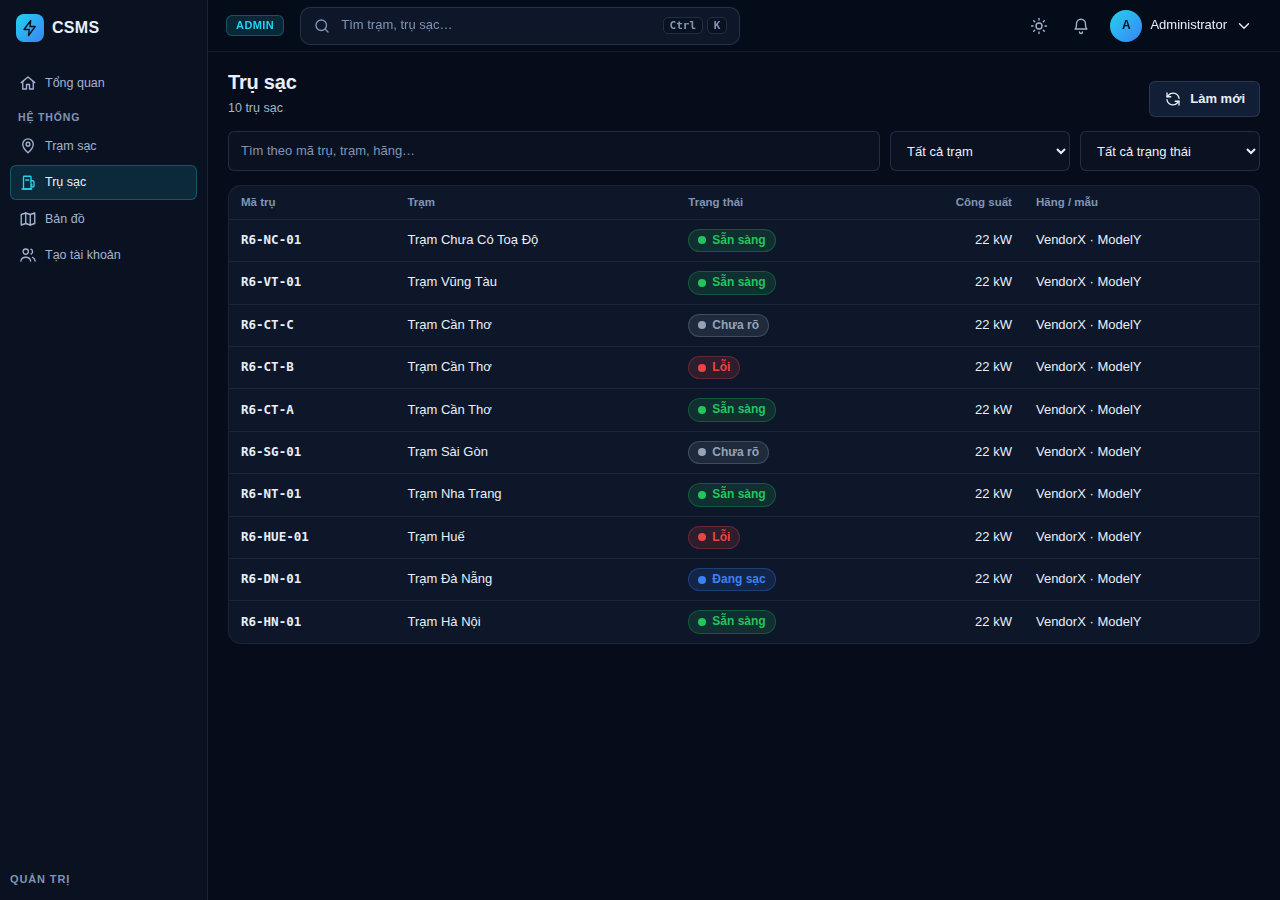
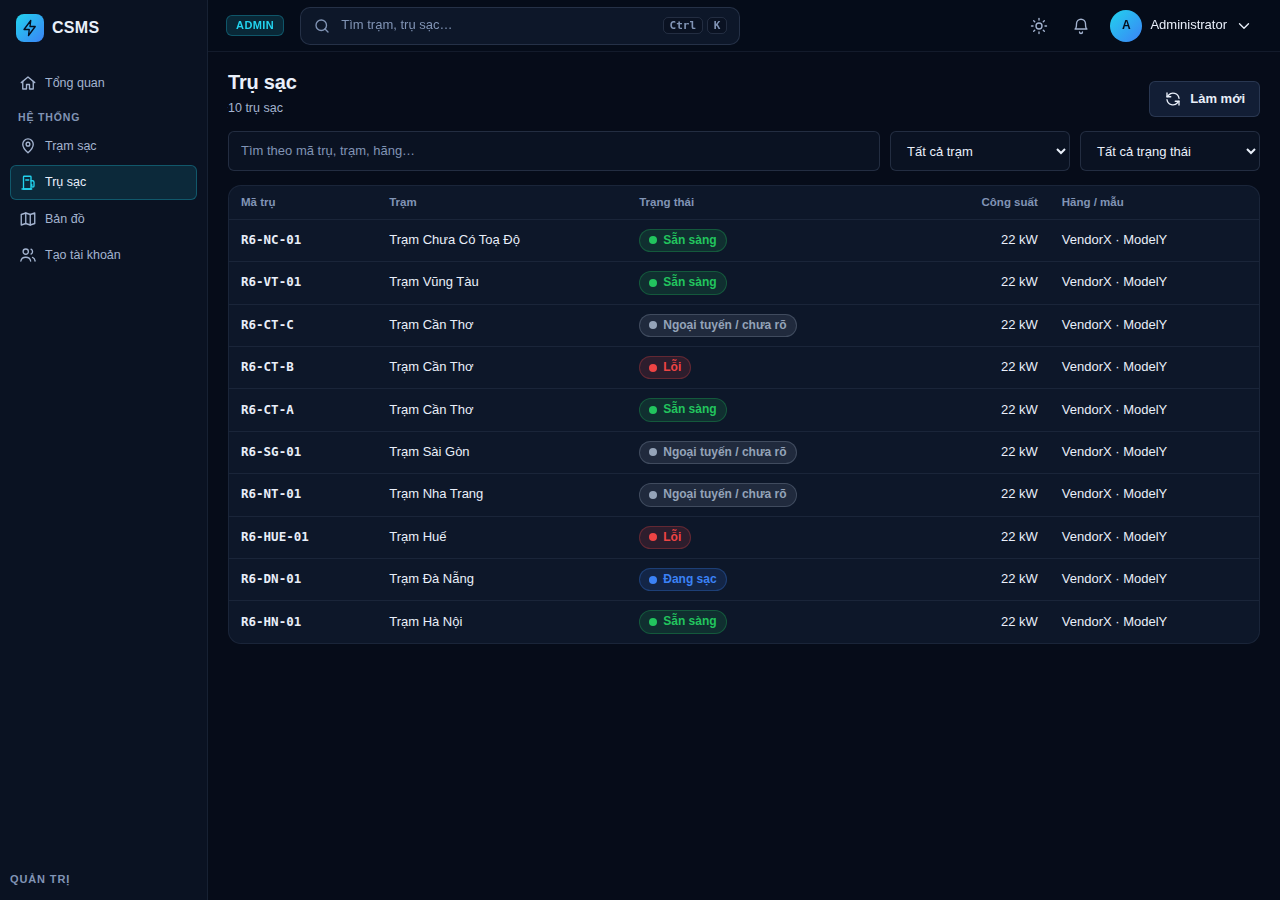
docs: cập nhật báo cáo vòng 6, ảnh UI và giới hạn đã biết [GYM-36]

diff --git a/README.md b/README.md
@@ -269,12 +269,12 @@ Menu của chức năng chưa có backend được **ẩn** (cấu hình trong `
 
 ### Giới hạn đã biết
 
-- **B5 (Chưa xác thực trụ / kết nối ẩn danh):** WebSocket `/ocpp/:chargePointCode` hiện chỉ kiểm tra mã trụ có tồn tại trong CSDL và trạm không bị khóa; chưa có cơ chế xác thực danh tính trụ (chưa có Basic Auth với mật khẩu trụ hoặc mTLS). Do đó, một kết nối ẩn danh nếu biết mã trụ có thể kết nối và đá (ngắt kết nối) trụ thật đang hoạt động theo logic S-13 (kết nối mới thay thế kết nối cũ). Đề xuất thiết kế (chưa có code, chờ PO chọn phương án): `docs/B5-xac-thuc-tru-de-xuat-thiet-ke.md`.
+- **B5 (Chưa xác thực trụ / kết nối ẩn danh):** WebSocket `/ocpp/:chargePointCode` hiện chỉ kiểm tra mã trụ có tồn tại trong CSDL và trạm không bị khóa; chưa có cơ chế xác thực danh tính trụ (chưa có Basic Auth với mật khẩu trụ hoặc mTLS). Do đó, một kết nối ẩn danh nếu biết mã trụ có thể kết nối và đá (ngắt kết nối) trụ thật đang hoạt động theo logic S-13 (kết nối mới thay thế kết nối cũ). Đề xuất thiết kế (chưa có code, chờ PO chọn phương án): `docs/B5-xac-thuc-tru-de-xuat-thiet-ke.md`. **Rủi ro được ghi nhận và chấp nhận tạm cho môi trường demo/staging (03/10/2026) đến khi PO chọn phương án; không dùng nguyên trạng cho production.**
 - **K-01 (Boot trùng messageId xử lý hai lần):** Chưa có cơ chế idempotency/deduplication cho frame OCPP CALL; nếu trụ gửi hai bản tin CALL trùng `messageId`, server hiện tại sẽ xử lý cả hai lần độc lập thay vì trả lại kết quả đã lưu trước đó.
-- **Authorize còn là stub; StatusNotification mức trụ chưa lưu (F5):** `Authorize` trả `Accepted` nếu có `idTag`, chưa kiểm tra thẻ RFID trong CSDL. `StatusNotification` đã cập nhật `connectors` cho `connectorId` ≥ 1 (khử trùng lỗi theo `OCPP_ERROR_DEDUP_SECONDS`), nhưng tin `connectorId = 0` (trạng thái của cả trụ) vẫn chỉ được xác nhận `{}` và ghi một dòng log gom theo trụ, chưa lưu vào CSDL. Ngoài ra `errorCode` ngoài 16 mã OCPP 1.6 được lưu thành `OtherError` (mã gốc giữ trong `vendor_error_code`).
+- **Authorize còn là stub; StatusNotification mức trụ chưa lưu (F5):** `Authorize` trả `Accepted` nếu có `idTag`, chưa kiểm tra thẻ RFID trong CSDL. `StatusNotification` đã cập nhật `connectors` cho `connectorId` ≥ 1 (khử trùng lỗi theo `OCPP_ERROR_DEDUP_SECONDS`), nhưng tin `connectorId = 0` (trạng thái của cả trụ) vẫn chỉ được xác nhận `{}` và ghi một dòng log gom theo trụ, chưa lưu vào CSDL (thiết kế cột/bảng cho trạng thái mức trụ thuộc S-11 và chờ Phúc/PO chốt; S-11 đã merge ở #70 chưa giải quyết mục này). Ngoài ra `errorCode` ngoài 16 mã OCPP 1.6 được lưu thành `OtherError` (mã gốc giữ trong `vendor_error_code`).
 - **Thư viện OCPP (Kế hoạch vs Triển khai):** Tài liệu kế hoạch Sprint 2 ban đầu ghi nhận dự kiến sử dụng thư viện `ocpp-rpc`. Tuy nhiên, mã nguồn thực tế đang sử dụng trực tiếp thư viện WebSocket `ws` thuần kết hợp bộ định dạng và xử lý frame tự viết (`backend/src/modules/ocpp/`) để kiểm soát chặt chẽ giao thức OCPP 1.6J.
 - **Tắt máy sạch (N4) chỉ đúng với một tiến trình server:** khi khởi động, server đặt mọi trụ `ONLINE` còn sót về `UNKNOWN` (kèm đầu nối). Nếu chạy nhiều bản sao cùng một CSDL, bản khởi động sau sẽ đánh dấu nhầm trụ đang kết nối ở bản kia; cần cơ chế theo phiên trước khi mở rộng ngang. `SIGKILL` không chạy được handler tắt máy, nên trụ `ONLINE` mồ côi chỉ được dọn ở lần khởi động kế tiếp.
-- **Hiển thị trụ ONLINE có đầu nối không khả dụng:** trụ `ONLINE` mà mọi đầu nối đều `UNAVAILABLE`/`UNKNOWN` vẫn hiện nhóm "Sẵn sàng" (xanh). Cần PO/QA chốt cách hiển thị.
+- **Hiển thị trụ ONLINE có đầu nối `UNKNOWN`:** trụ `ONLINE` mà đầu nối chưa báo trạng thái (`UNKNOWN`, thường vừa Boot) vẫn hiện nhóm "Sẵn sàng" (xanh) vì trụ đang kết nối. Trụ `ONLINE` có toàn đầu nối `UNAVAILABLE` đã hiện "Ngoại tuyến / chưa rõ". Cần PO/QA xác nhận quy tắc này.
 - **Tile bản đồ thật chưa kiểm:** kiểm thử giao diện bản đồ dùng tile OSM giả (PNG trong suốt); chưa thử tải tile thật trên mạng có Internet. Chưa kiểm staging với 50 trụ ảo (thiếu URL staging).
 
 ---

diff --git a/docs/testing/ui-round6/README.md b/docs/testing/ui-round6/README.md
@@ -35,19 +35,21 @@ Các kiểm tra (desktop 1280 px; mobile 390 px kiểm lại số marker, màu, 
 |---|---|---|
 | Số marker = số trạm có toạ độ (7), ghi chú "1 trạm chưa có toạ độ" | ok | ok |
 | Chú giải đủ 5 nhóm; Leaflet khởi tạo, yêu cầu tile | ok | ok |
-| Màu marker từng trạm (Hà Nội ready, Đà Nẵng charging, Huế fault, Nha Trang ready, Sài Gòn offline, Cần Thơ fault, Vũng Tàu ready) | 6/7 sai: mọi trạm có trụ ONLINE hiện offline | 7/7 đúng |
+| Màu marker từng trạm (Hà Nội ready, Đà Nẵng charging, Huế fault, Nha Trang offline, Sài Gòn offline, Cần Thơ fault, Vũng Tàu ready) | 6/7 sai: mọi trạm có trụ ONLINE hiện offline | 7/7 đúng |
 | Chấm màu panel danh sách trạm | 6/7 sai | 7/7 đúng |
 | Bộ lọc trạng thái (4 nhóm) cho danh sách và marker | sai: "Sẵn sàng/Đang sạc/Lỗi" rỗng, "Ngoại tuyến" hiện cả 7 trạm | đúng |
 | Tìm "Huế" → 1 marker | ok | ok |
 | Bấm marker / bấm dòng danh sách → ngăn chi tiết đúng trạm, đầu nối hiện đúng giá trị gốc | ok | ok |
-| Nhãn trụ trong ngăn chi tiết trạm | ONLINE hiện "Ngoại tuyến / chưa rõ" | "Sẵn sàng" / "Đang sạc" / "Lỗi" theo đầu nối |
+| Nhãn trụ trong ngăn chi tiết trạm | ONLINE hiện "Ngoại tuyến / chưa rõ" | "Sẵn sàng" / "Đang sạc" / "Lỗi" theo đầu nối; trụ ONLINE có toàn đầu nối `UNAVAILABLE` (Nha Trang) và trụ `UNKNOWN` hiện "Ngoại tuyến / chưa rõ" |
 | Tooltip giữ trạng thái gốc (`Trạng thái gốc: ONLINE`, `Available`, `Charging`...) | ok | ok |
 | Màn danh sách trụ: nhãn, màu badge, bộ lọc 4 nhóm | 8/10 trụ sai, lọc sai | đúng |
 | Ngăn chi tiết trụ: nhãn đầu ngăn, "Trạng thái gốc" = ONLINE, tooltip đầu nối | nhãn sai | đúng |
-| KPI tổng quan: Tổng 10, Sẵn sàng 5, Đang sạc 1, Lỗi 2, Ngoại tuyến 2 | 0/0/0/10 | đúng |
+| KPI tổng quan: Tổng 10, Sẵn sàng 4, Đang sạc 1, Lỗi 2, Ngoại tuyến / chưa rõ 3 | 0/0/0/10 | đúng |
 | Không tràn ngang ở 390 px (bản đồ, danh sách trụ) | ok | ok |
 
 Chi tiết từng kiểm tra (kỳ vọng/thực tế) nằm trong `results.json`.
+
+Lưu ý: cột "Trước" và các ảnh `before-*` lấy từ lần chạy đầu trên `main` với kỳ vọng cũ (trạm Nha Trang kỳ vọng "ready"); chỉ phần `after` được chạy lại ngày 03/10 với kỳ vọng mới (Nha Trang "offline", KPI 4/1/2/3). Số 66/121 của bản trước không tính lại.
 
 ## Ảnh chụp
 
@@ -68,11 +70,13 @@ Chi tiết từng kiểm tra (kỳ vọng/thực tế) nằm trong `results.json
   thay bằng ảnh trong suốt; chưa xác nhận tile thật hiển thị, CORS (`crossOrigin: true`) và tốc độ tải tile.
 - Chỉ chạy Chrome (150) headless; chưa chạy Firefox/Safari. Chưa đo trên thiết bị thật.
 
-## Bất thường của sản phẩm ghi nhận (chưa vá, cần PO/QA quyết định)
+## Quyết định hiển thị đã xử lý (cập nhật 03/10, commit `9fc383d` và `65e3cc5`)
 
-1. Trụ `ONLINE` mà mọi đầu nối đều `UNAVAILABLE` hoặc `UNKNOWN` hiện "Sẵn sàng" (xanh) vì `ONLINE` thuộc nhóm ready và
-   `SEVERITY` xếp ready nặng hơn offline. Ảnh `after-charge-point-drawer-unavailable-desktop.png`: trụ "Sẵn sàng" nhưng cả
-   hai đầu "Không khả dụng". Có thể gây hiểu nhầm là sạc được.
-2. Nhãn đầu nối `UNAVAILABLE` là "Không khả dụng", trong khi mô tả F4 nêu nhãn "Tạm ngừng".
-3. Trụ `UNKNOWN` hiện nhãn "Chưa rõ" (màu nhóm offline), khác nhãn nhóm "Ngoại tuyến / chưa rõ" ở chú giải và bộ lọc.
-   Đây là hành vi đã có từ trước F2.
+1. Trụ `ONLINE` mà **mọi** đầu nối đều `UNAVAILABLE` thuộc nhóm "Ngoại tuyến / chưa rõ" (trạm Nha Trang trong dữ liệu
+   thử, marker và KPI đổi theo). Đã sửa `pointGroup`; ảnh `after-*` được chụp lại sau khi sửa (121/121 ok).
+2. Nhãn đầu nối `UNAVAILABLE` là "Tạm ngừng" (đúng mô tả F4).
+3. Nhãn trụ `UNKNOWN` thống nhất là "Ngoại tuyến / chưa rõ" ở danh sách trụ, ngăn chi tiết trụ và ngăn chi tiết trạm.
+   Nhãn đầu nối `UNKNOWN` vẫn là "Chưa rõ".
+
+**Còn để PO/QA xác nhận:** trụ `ONLINE` có đầu nối `UNKNOWN` (vừa Boot, chưa gửi `StatusNotification`) vẫn hiện
+"Sẵn sàng". Đã chọn giữ như vậy vì trụ đang kết nối; đầu nối `UNKNOWN` không hạ nhóm của trụ.
